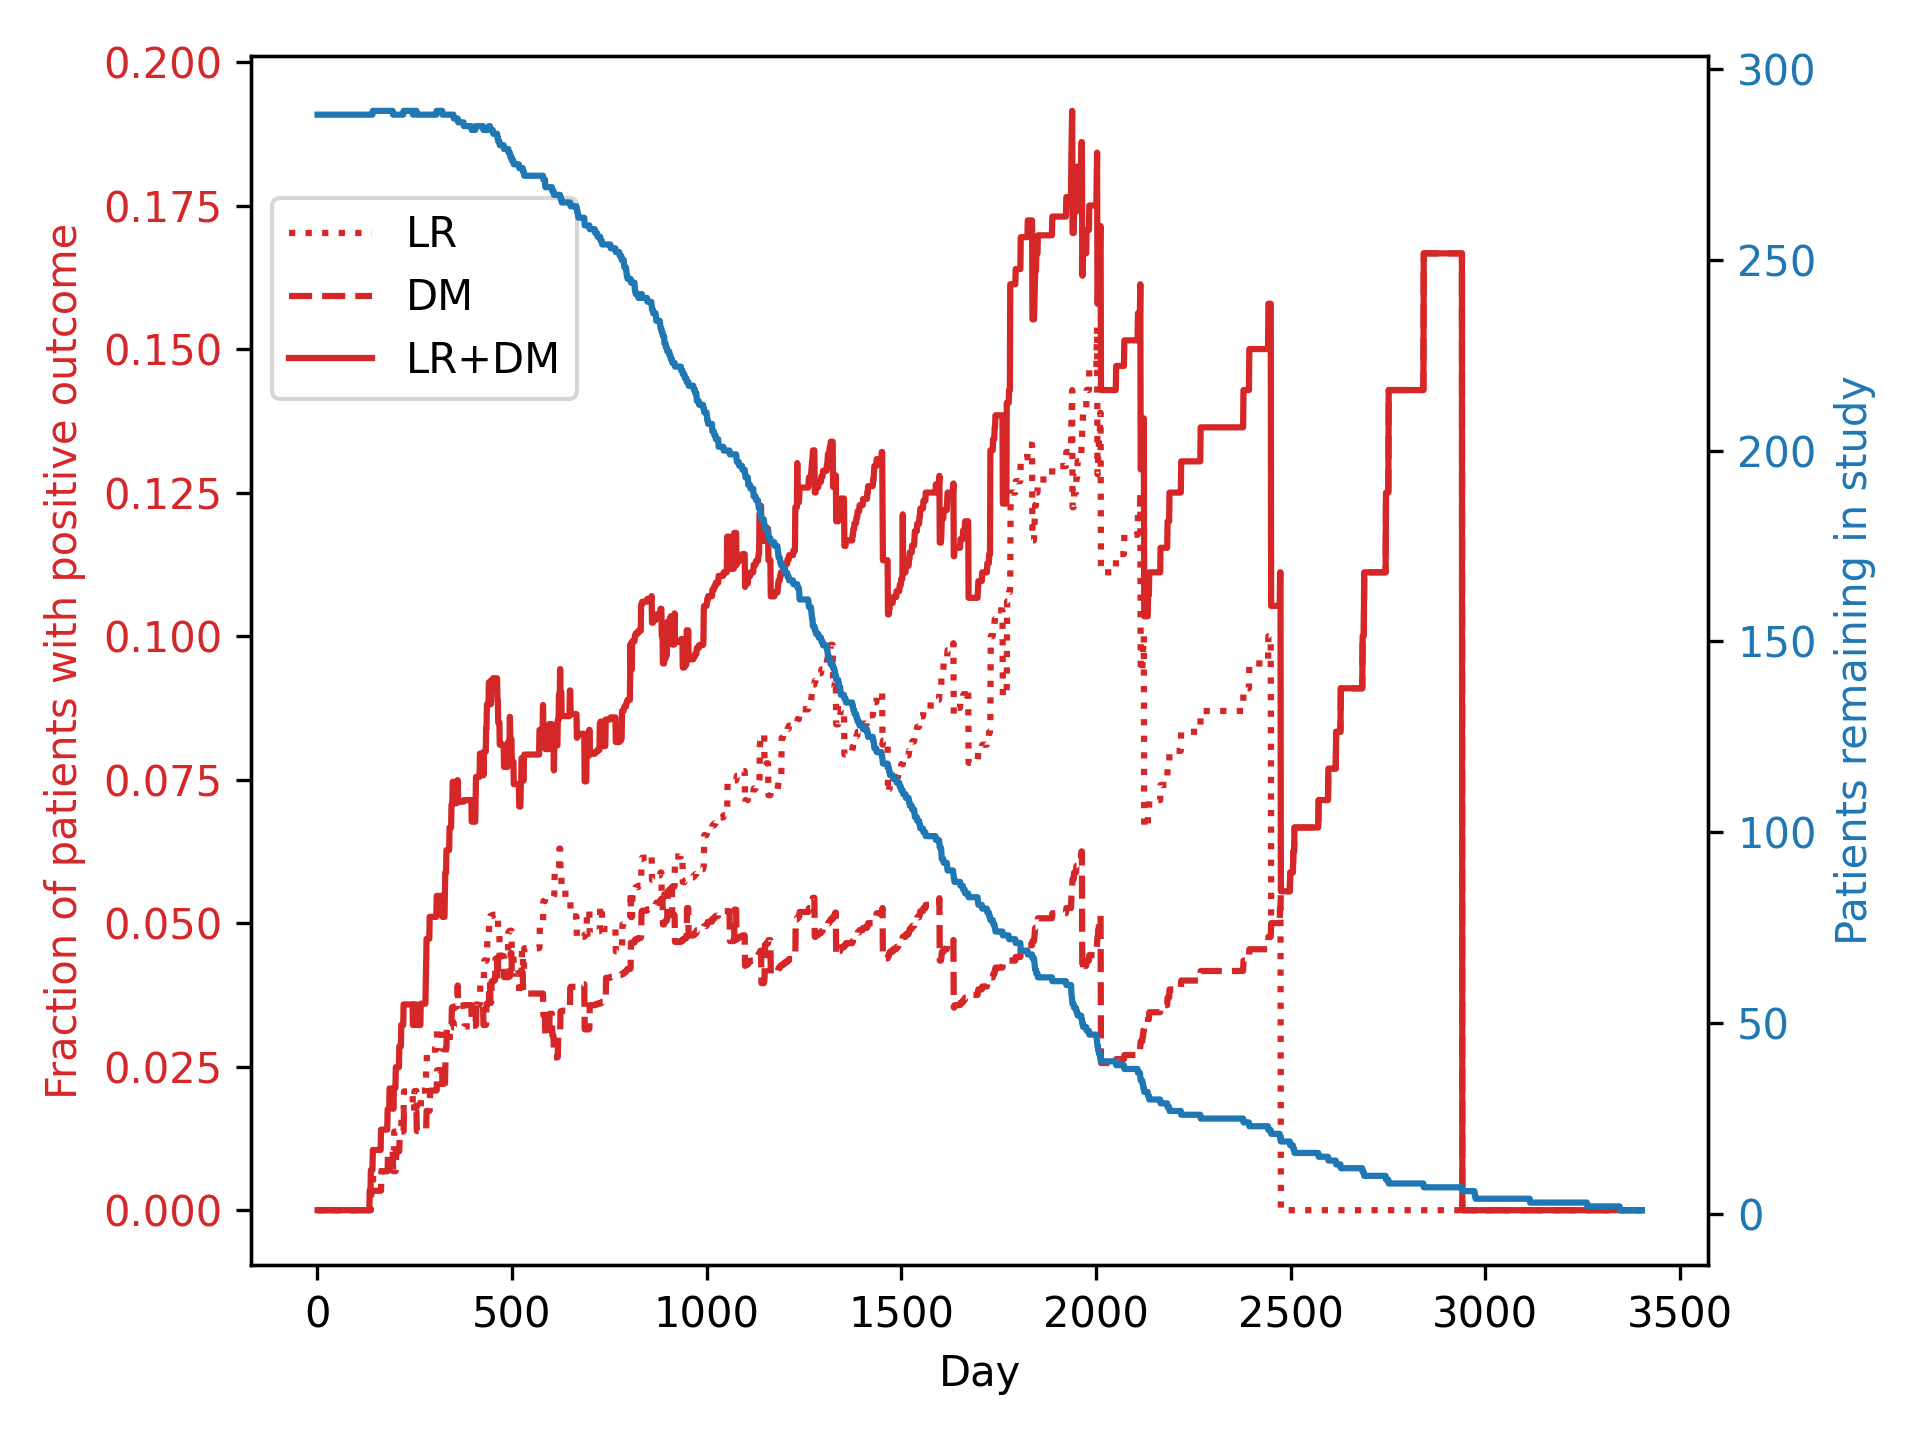
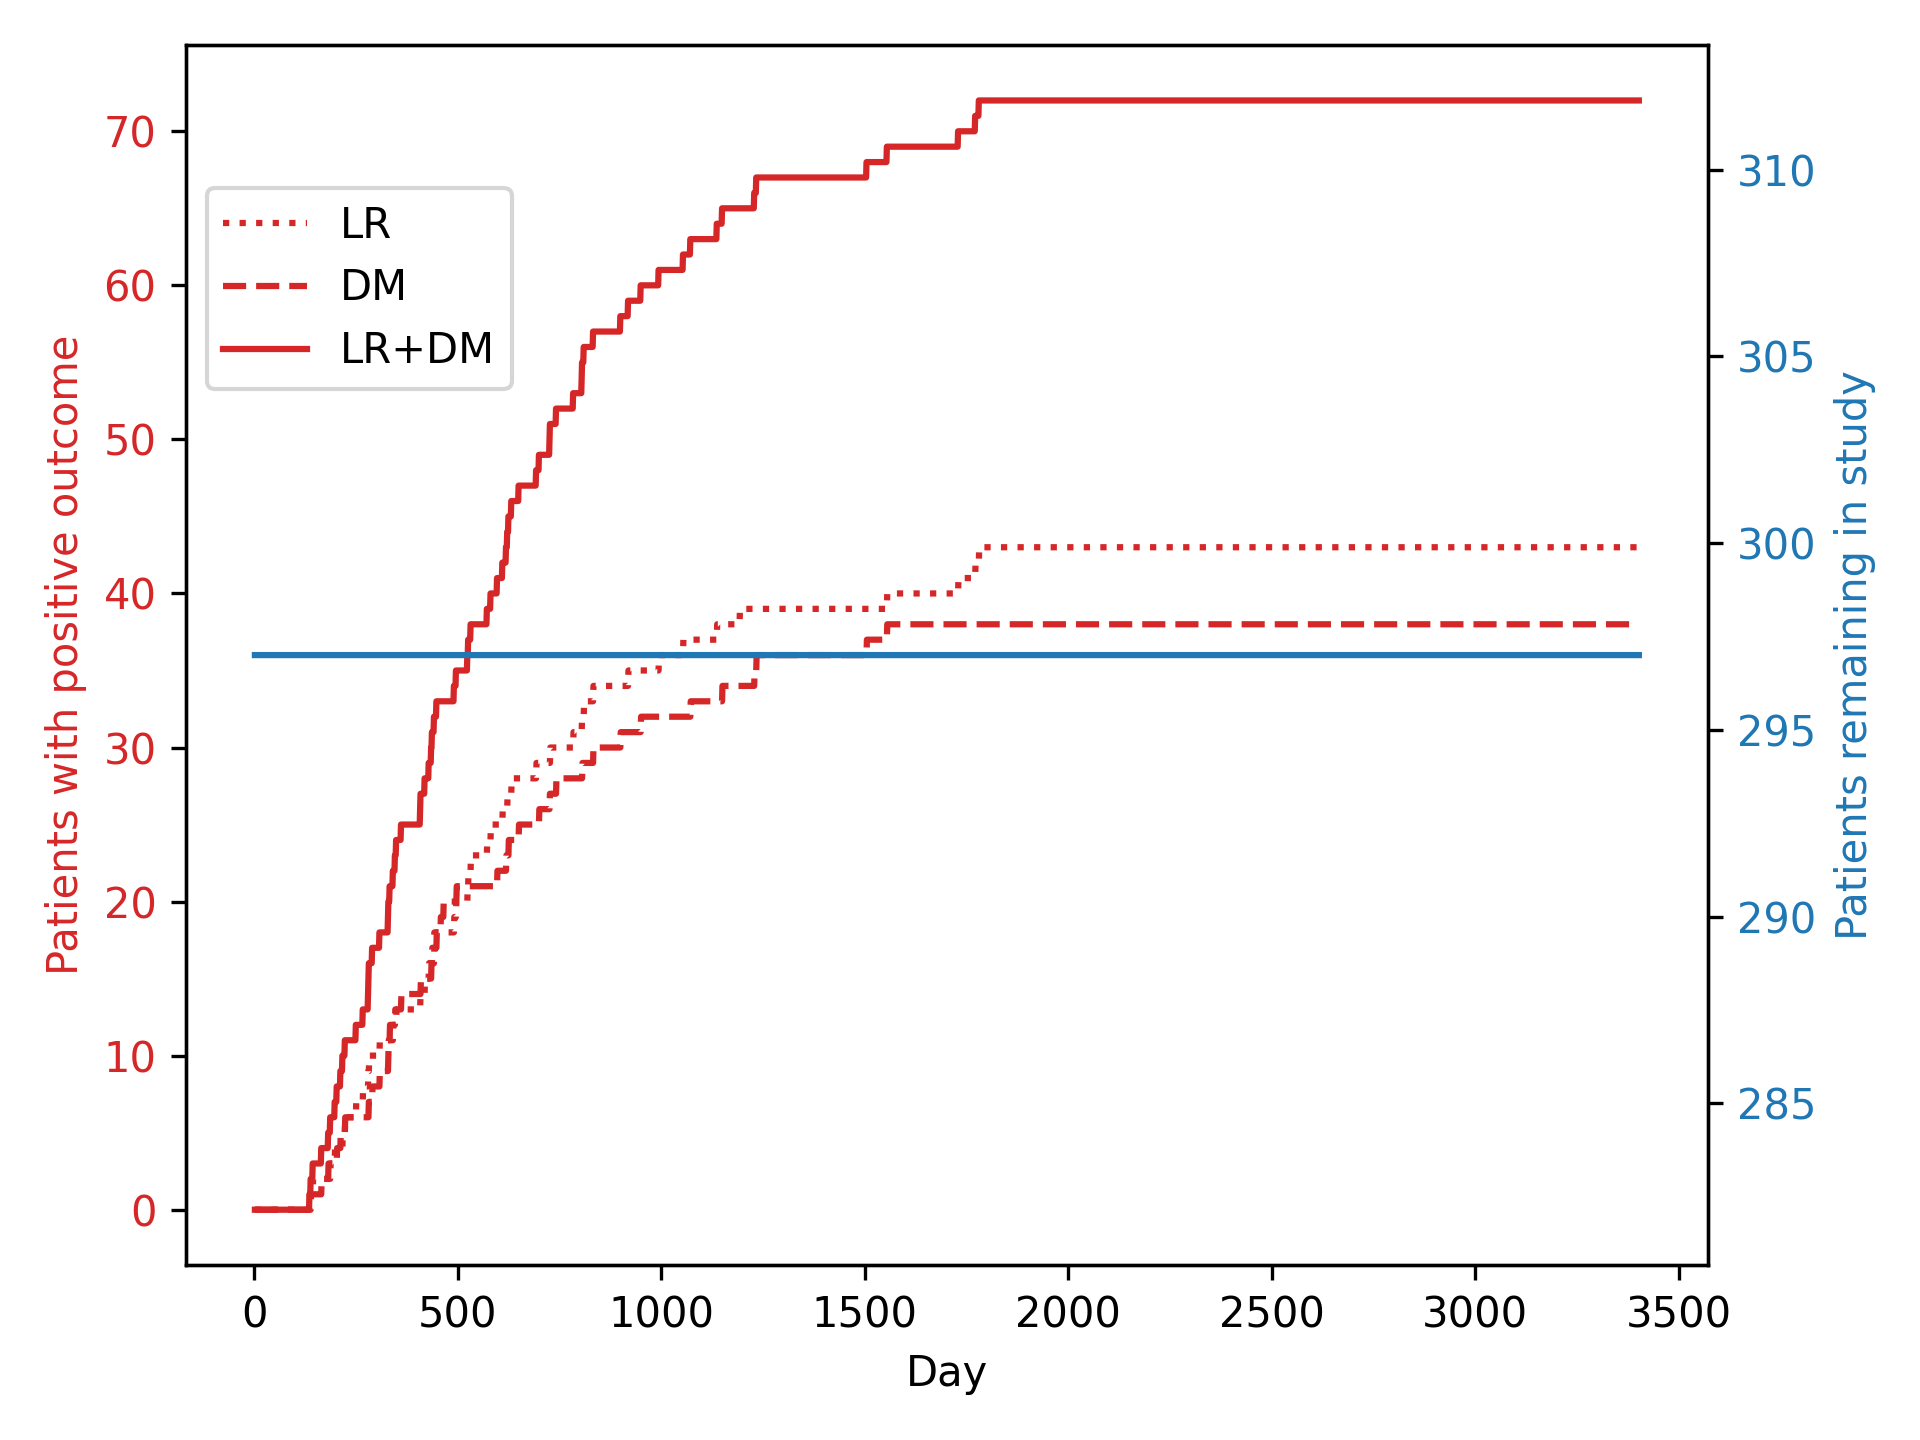
merged Outcomes class

diff --git a/Network/Binary_Outcome.py b/Network/Binary_Outcome.py
@@ -1,5 +1,5 @@
 # commands to run from (py39) jd_bannister28_gmail_com@mphys-vm-http:~/MPhys-Radiotherapy-49$
-# python Binary_Outcome.py /data/James_Anna crop_2022_03_01-12_00_12 {outcome type} {day to check for outcome} {epochs} {batch size} {learning rate}
+# python Binary_Outcome.py /data/James_Anna crop_2022_03_01-12_00_12 {day to check for outcome} {epochs} {batch size} {learning rate}
 
 import os
 import sys
@@ -19,7 +19,7 @@ from Tensorboard import customWriter
 from ImageDataset import ImageDataset
 from torch.utils.data import DataLoader
 from Results import log, Results
-from outcomes import outcomes, split, outcome_str_from_int
+from Outcomes import outcomes, split
 from Network_Loops import train_loop, validate_loop, test_loop
 from torch.optim.lr_scheduler import ReduceLROnPlateau
 
@@ -31,7 +31,6 @@ date = datetime.now().strftime("%Y_%m_%d_%H_%M_%S")
 # Define the location of the data using system inputs
 project_folder = sys.argv[1] 
 subfolder = sys.argv[2] 
-outcome_type = int(sys.argv[3])
 check_day = int(sys.argv[4])
 epochs = int(sys.argv[5])
 batch_size = int(sys.argv[6])
@@ -59,7 +58,8 @@ metadata[0][0] + ".nii")
 image = sitk.GetArrayFromImage(image_sitk)
 image_dimension = image.shape[0]
 
-positives, negatives = outcome(metadata, check_day).lr_dm_binary()
+patient_outcomes = outcomes(metadata, check_day)
+positives, negatives = patient_outcomes.lr_dm_binary()
 
 # Split outcomes into train, validation and test
 tr_pos, val_pos, test_pos = split(outcome_list=positives, train_ratio=0.7)
@@ -123,7 +123,7 @@ writer = customWriter("/data/James_Anna/Tensorboard/", 2, 0, 1,
 train_dataloader, image_dimension)
 
 info_string = (f"Date: {date}  \nNetwork: {model.name}  \nBinary Outcome: "
-f"{outcome_str_from_int(outcome_type)}  \nCheck for outcome on day: {check_day}"
+f"{patient_outcomes.name}  \nCheck for outcome on day: {check_day}"
 f"  \n  Batch Size: {batch_size}  \nLearning Rate: {learning_rate}")
 
 writer.add_text("Info", info_string)

diff --git a/Network/plot_outcome_fractions.py b/Network/plot_outcome_fractions.py
@@ -1,4 +1,4 @@
-from Outcomes_class import outcomes
+from Outcomes import outcomes
 import numpy as np
 import matplotlib.pyplot as plt
 
@@ -20,19 +20,21 @@ pos_fractions_lr_dm = []
 days = []
 day = 1
 while day <= max_follow_up_day:
-  test_outcomes = outcomes(new_metadata, day)
+  outcome = outcomes(new_metadata, day, False)
   days.append(day)
+  total_patients.append(len(outcome.metadata))
 
-  positives, negatives = test_outcomes.lr_binary()
-  pos_fractions_lr.append(len(positives)/len(negatives))
+  positives, negatives = outcome.lr_binary()
+  # pos_fractions_lr.append(len(positives)/len(outcome.metadata))
+  pos_fractions_lr.append(len(positives))
 
-  positives, negatives = test_outcomes.dm_binary()
-  pos_fractions_dm.append(len(positives)/len(negatives))
+  positives, negatives = outcome.dm_binary()
+  # pos_fractions_dm.append(len(positives)/len(outcome.metadata))
+  pos_fractions_dm.append(len(positives))
 
-  positives, negatives = test_outcomes.lr_dm_binary()
-  pos_fractions_lr_dm.append(len(positives)/len(negatives))
-
-  total_patients.append(len(positives)+len(negatives))
+  positives, negatives = outcome.lr_dm_binary()
+  # pos_fractions_lr_dm.append(len(positives)/len(outcome.metadata))
+  pos_fractions_lr_dm.append(len(positives))
   day += 1
 
 
@@ -40,7 +42,7 @@ fig, ax1 = plt.subplots()
 
 color = 'tab:red'
 ax1.set_xlabel('Day')
-ax1.set_ylabel('Fraction of patients with positive outcome', color=color)
+ax1.set_ylabel('Patients with positive outcome', color=color)
 ax1.plot(days, pos_fractions_lr, color=color, linestyle=':', label='LR')
 ax1.plot(days, pos_fractions_dm, color=color, linestyle='--', label='DM')
 ax1.plot(days, pos_fractions_lr_dm, color=color, linestyle='-', label='LR+DM')

diff --git a/Network/Outcomes.py b/Network/Outcomes.py
@@ -7,8 +7,10 @@ class outcomes():
     self.check_day = check_day
     if censoring == True:
       self.metadata = self.censor(data_array)
+      self.name = "Censored"
     else:
       self.metadata = data_array
+      self.name = "Uncensored"
 
   def censor(self, array):
     new_array = []
@@ -27,6 +29,7 @@ class outcomes():
         negatives.append([patient[0], 0])
       elif (int(patient[2]) < self.check_day):
         positives.append([patient[0], 1])
+    self.name += ", binary locoregional recurrence"
     return positives, negatives
   
   def dm_binary(self):
@@ -37,6 +40,7 @@ class outcomes():
         negatives.append([patient[0], 0])
       elif (int(patient[3]) < self.check_day):
         positives.append([patient[0], 1])
+    self.name += ", binary distant metastasis"
     return positives, negatives
 
   def lr_dm_binary(self):
@@ -61,16 +65,8 @@ class outcomes():
           positives.append([patient[0], 1])
       else:
         negatives.append([patient[0], 1])
+    self.name += ", binary locoregional recurrence or distant metastasis"
     return positives, negatives
-
-def outcome_str_from_int(outcome_int):
-  if outcome_int == 1:
-    outcome_str = "Locoregional recurrence"
-  elif outcome_int == 2:
-    outcome_str = "Distant Metastasis"
-  elif outcome_int == 3:
-    outcome_str = "Death"
-  return outcome_str
 
 def split(outcome_list, train_ratio):
   # Split a list of patient outcomes into a train, validation and test set. No.
